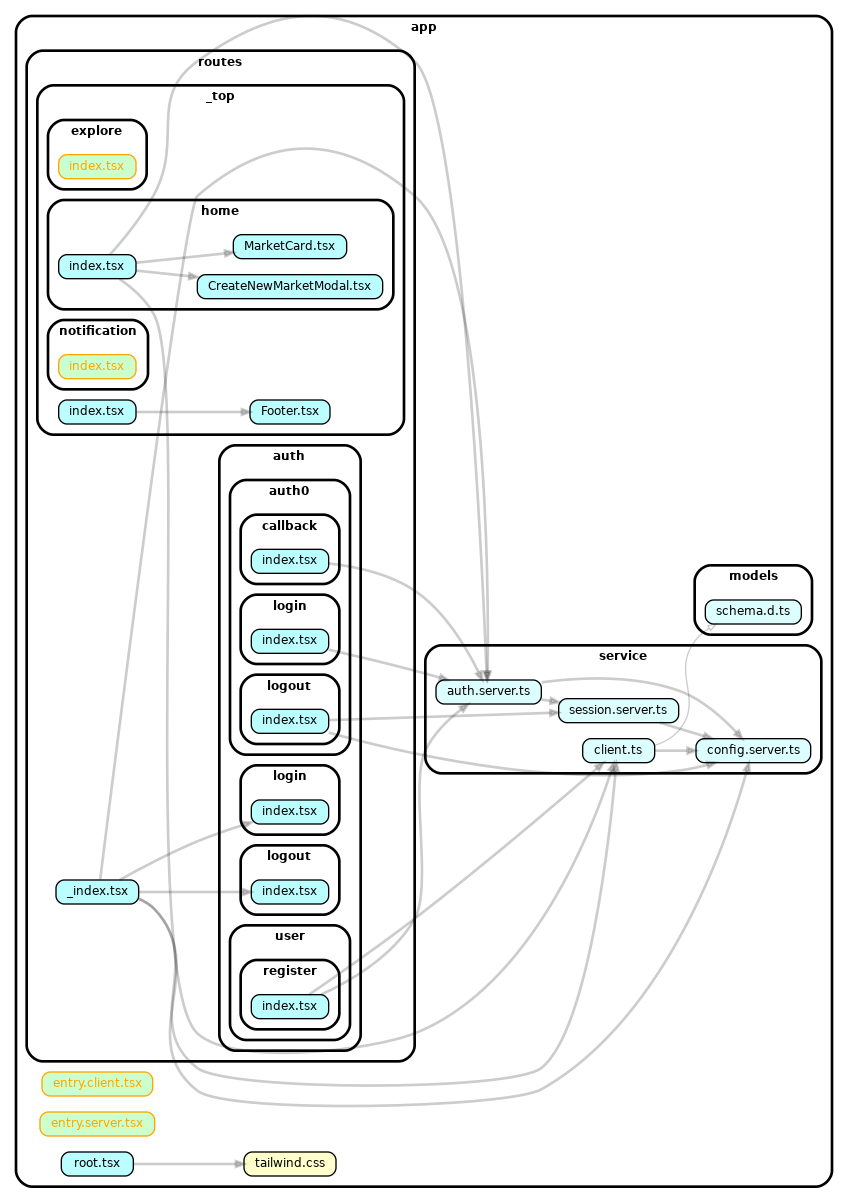
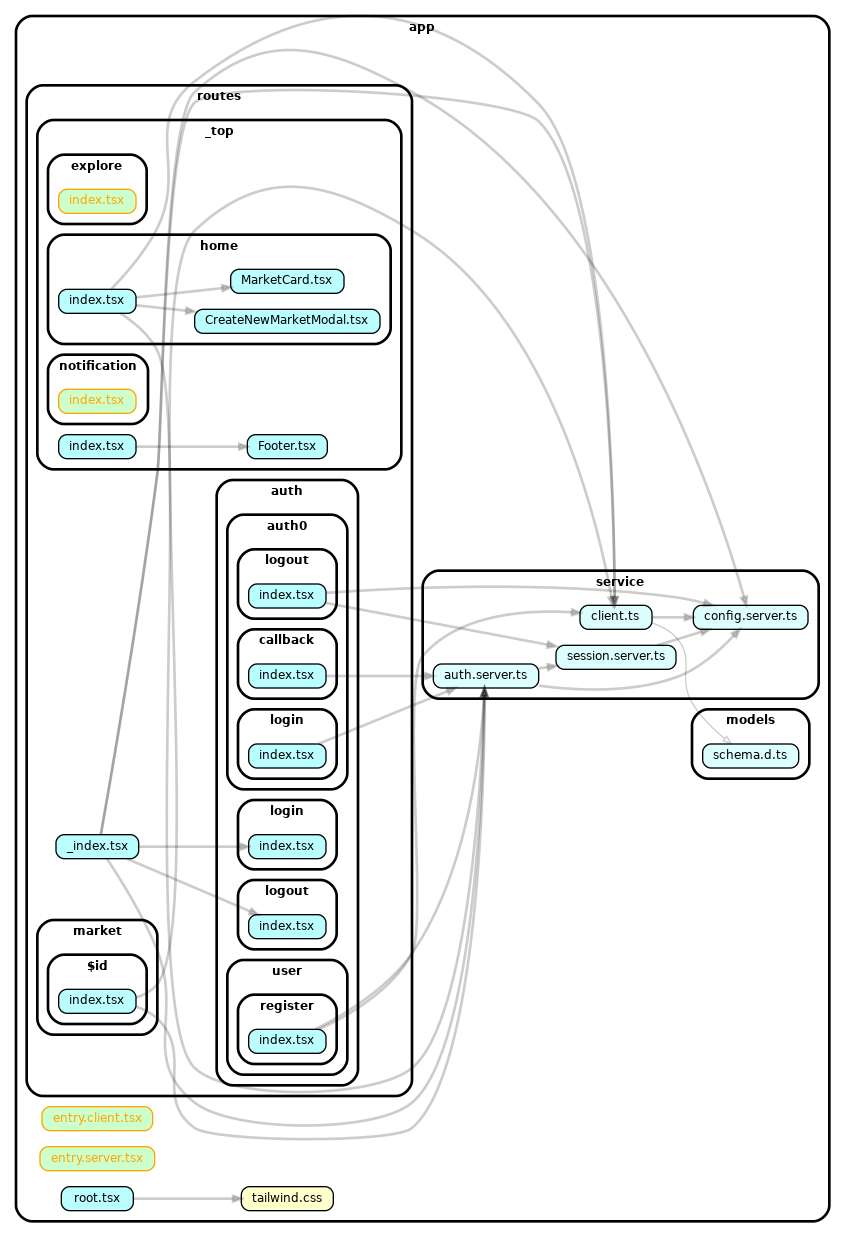
feat: FE market詳細画面 (#98)

diff --git a/web/share-cart/app/routes/market/$id/index.tsx b/web/share-cart/app/routes/market/$id/index.tsx
@@ -1,0 +1,111 @@
+import type { ActionFunctionArgs, LoaderFunctionArgs } from "@remix-run/node";
+import { json, redirect } from "@remix-run/node";
+import { Form, Link, useLoaderData } from "@remix-run/react";
+import { authenticator } from "~/service/auth.server";
+import { shareCartClient } from "~/service/client";
+
+// marketの読み込み
+export async function loader({ params, request }: LoaderFunctionArgs) {
+	if (!params.id) {
+		return redirect("/home");
+	}
+	const jwt = await authenticator.isAuthenticated(request);
+	const client = shareCartClient(jwt?.accessToken);
+	const { data } = await client.GET("/market/{marketId}", {
+		params: { path: { marketId: params.id } },
+	});
+
+	if (!data) {
+		return redirect("/home");
+	}
+
+	return json({ market: data });
+}
+
+// marketの削除
+// TODO: 編集
+export async function action({ params, request }: ActionFunctionArgs) {
+	const formData = await request.formData();
+	const jwt = await authenticator.isAuthenticated(request);
+	const client = shareCartClient(jwt?.accessToken);
+
+	if (formData.get("_method") == "delete") {
+		if (!params.id) {
+			return redirect("/home");
+		}
+		const res = await client.DELETE("/market/{marketId}", {
+			params: { path: { marketId: params.id } },
+		});
+		if (!res.response.ok) {
+			return json({ message: "Failed to delete market" }, { status: 500 });
+		}
+		return redirect("/home");
+	}
+	return redirect("/home");
+}
+
+export default function Home() {
+	const { market } = useLoaderData<typeof loader>();
+	return (
+		<>
+			<div className="flex py-2">
+				<Link to="/home">
+					<button className="bg-blue-500 text-white px-4 rounded-lg">
+						Back
+					</button>
+				</Link>
+				<div className="flex-grow" />
+				<Form method="post">
+					<input type="hidden" name="_method" value="delete" />
+					<button
+						type="submit"
+						className="bg-red-500 text-white px-4 rounded-lg"
+					>
+						Delete
+					</button>
+				</Form>
+			</div>
+			<MarketCard market={market} />
+		</>
+	);
+}
+
+type MarketCardProps = {
+	market: {
+		id: string;
+		name: string;
+		description: string;
+		images: string[];
+	};
+};
+
+const noImageURL = "https://placehold.jp/150x150.png";
+const defaultImageURL =
+	"https://cdn.pixabay.com/photo/2021/01/01/12/44/concert-5878452_640.jpg";
+
+function MarketCard(props: MarketCardProps) {
+	if (!props.market.images.length) {
+		props.market.images = [defaultImageURL];
+	}
+
+	return (
+		<div>
+			<div className="relative">
+				<img
+					src={props.market.images[0]}
+					className="object-cover w-full h-32"
+					alt="market"
+					onError={(e) => {
+						(e.target as HTMLImageElement).src = noImageURL;
+					}}
+				/>
+				<div className="absolute inset-x-0 bottom-0 h-1/3 bg-gradient-to-b from-transparent to-black rounded-b-2xl">
+					<p className="text-gray-200 absolute left-4 bottom-2">
+						<strong className="text-xl">{props.market.name}</strong>
+					</p>
+				</div>
+			</div>
+			<p className="text-gray-500">{props.market.description}</p>
+		</div>
+	);
+}

diff --git a/web/share-cart/app/models/schema.d.ts b/web/share-cart/app/models/schema.d.ts
@@ -119,6 +119,74 @@ export interface paths {
         patch?: never;
         trace?: never;
     };
+    "/market/{marketId}": {
+        parameters: {
+            query?: never;
+            header?: never;
+            path?: never;
+            cookie?: never;
+        };
+        /** Get a market by ID */
+        get: {
+            parameters: {
+                query?: never;
+                header?: never;
+                path: {
+                    /**
+                     * @description The market ID(uuid).
+                     * @example xxxxxxxx-xxxx-xxxx-xxxx-xxxxxxxxxxxx
+                     */
+                    marketId: string;
+                };
+                cookie?: never;
+            };
+            requestBody?: never;
+            responses: {
+                /** @description A market. */
+                200: {
+                    headers: {
+                        [name: string]: unknown;
+                    };
+                    content: {
+                        "application/json": components["schemas"]["market"];
+                    };
+                };
+                default: components["responses"]["500InternalServerError"];
+            };
+        };
+        put?: never;
+        post?: never;
+        /** Delete a market by ID */
+        delete: {
+            parameters: {
+                query?: never;
+                header?: never;
+                path: {
+                    /**
+                     * @description The market ID(uuid).
+                     * @example xxxxxxxx-xxxx-xxxx-xxxx-xxxxxxxxxxxx
+                     */
+                    marketId: string;
+                };
+                cookie?: never;
+            };
+            requestBody?: never;
+            responses: {
+                /** @description No content. */
+                204: {
+                    headers: {
+                        [name: string]: unknown;
+                    };
+                    content?: never;
+                };
+                default: components["responses"]["500InternalServerError"];
+            };
+        };
+        options?: never;
+        head?: never;
+        patch?: never;
+        trace?: never;
+    };
 }
 export type webhooks = Record<string, never>;
 export interface components {

diff --git a/web/share-cart/app/routes/_top/home/index.tsx b/web/share-cart/app/routes/_top/home/index.tsx
@@ -1,5 +1,5 @@
-import { ActionFunctionArgs, json } from "@remix-run/node";
-import { useLoaderData } from "@remix-run/react";
+import { ActionFunctionArgs, json, LoaderFunctionArgs } from "@remix-run/node";
+import { Link, useLoaderData } from "@remix-run/react";
 import { useState } from "react";
 import { authenticator } from "~/service/auth.server";
 import { shareCartClient } from "~/service/client";
@@ -10,7 +10,7 @@ import {
 } from "./CreateNewMarketModal";
 import { MarketCard } from "./MarketCard";
 
-export async function loader({ request }: { request: Request }) {
+export async function loader({ request }: LoaderFunctionArgs) {
 	const jwt = await authenticator.isAuthenticated(request);
 	const client = shareCartClient(jwt?.accessToken);
 	const { data } = await client.GET("/market");
@@ -67,14 +67,14 @@ export default function Home() {
 			</div>
 			<div className="grid grid-cols-2 gap-4">
 				{markets?.map((market) => (
-					<div key={market.id} className="rounded-md">
+					<Link to={`/market/${market.id}`} prefetch="viewport" key={market.id}>
 						<MarketCard
 							market={{
 								...market,
 								imageURL: market.images[0] || defaultImageURL,
 							}}
 						/>
-					</div>
+					</Link>
 				))}
 			</div>
 		</div>

diff --git a/web/share-cart/app/routes/_top/home/MarketCard.tsx b/web/share-cart/app/routes/_top/home/MarketCard.tsx
@@ -10,7 +10,7 @@ const noImageURL = "https://placehold.jp/150x150.png";
 
 export const MarketCard = (props: MarketCardProps) => {
 	return (
-		<div className="text-wrap truncate">
+		<div className="text-wrap truncate rounded-lg">
 			<img
 				src={props.market.imageURL}
 				className="object-cover w-full h-32"

diff --git a/web/share-cart/app/routes/_top/Footer.tsx b/web/share-cart/app/routes/_top/Footer.tsx
@@ -8,7 +8,7 @@ const navContent = (
 	children: ReactNode,
 ) => {
 	if (isPending) {
-		return <div className="text-center text-gray-400 py-2">{children}</div>;
+		return <div className="text-center py-2">{children}</div>;
 	}
 	if (isActive) {
 		return (
